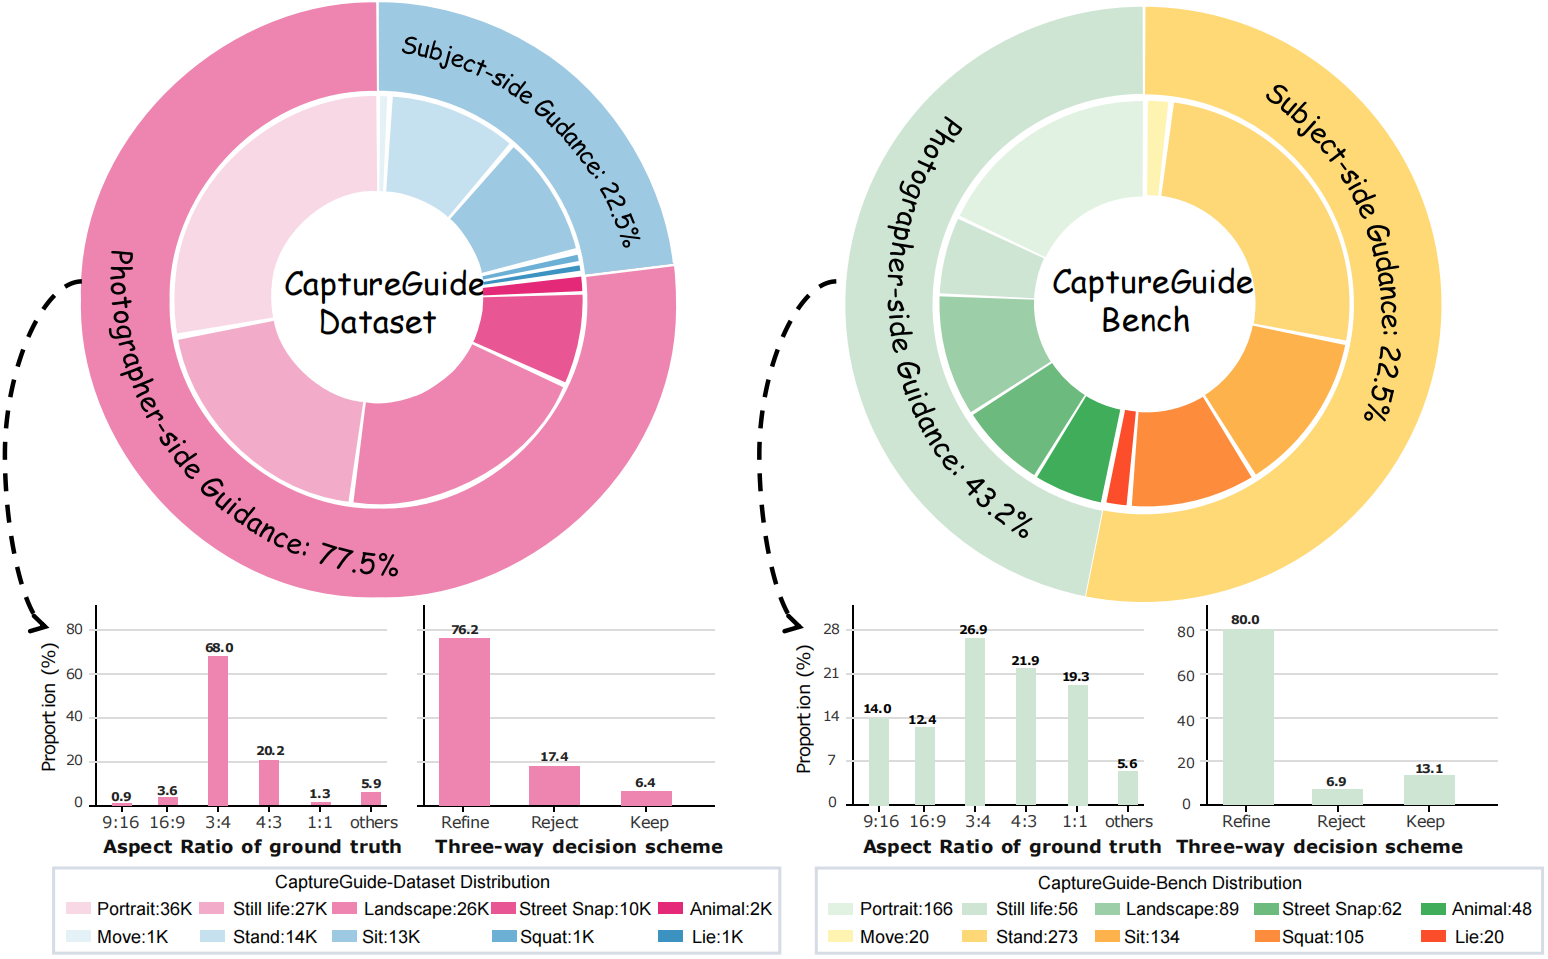
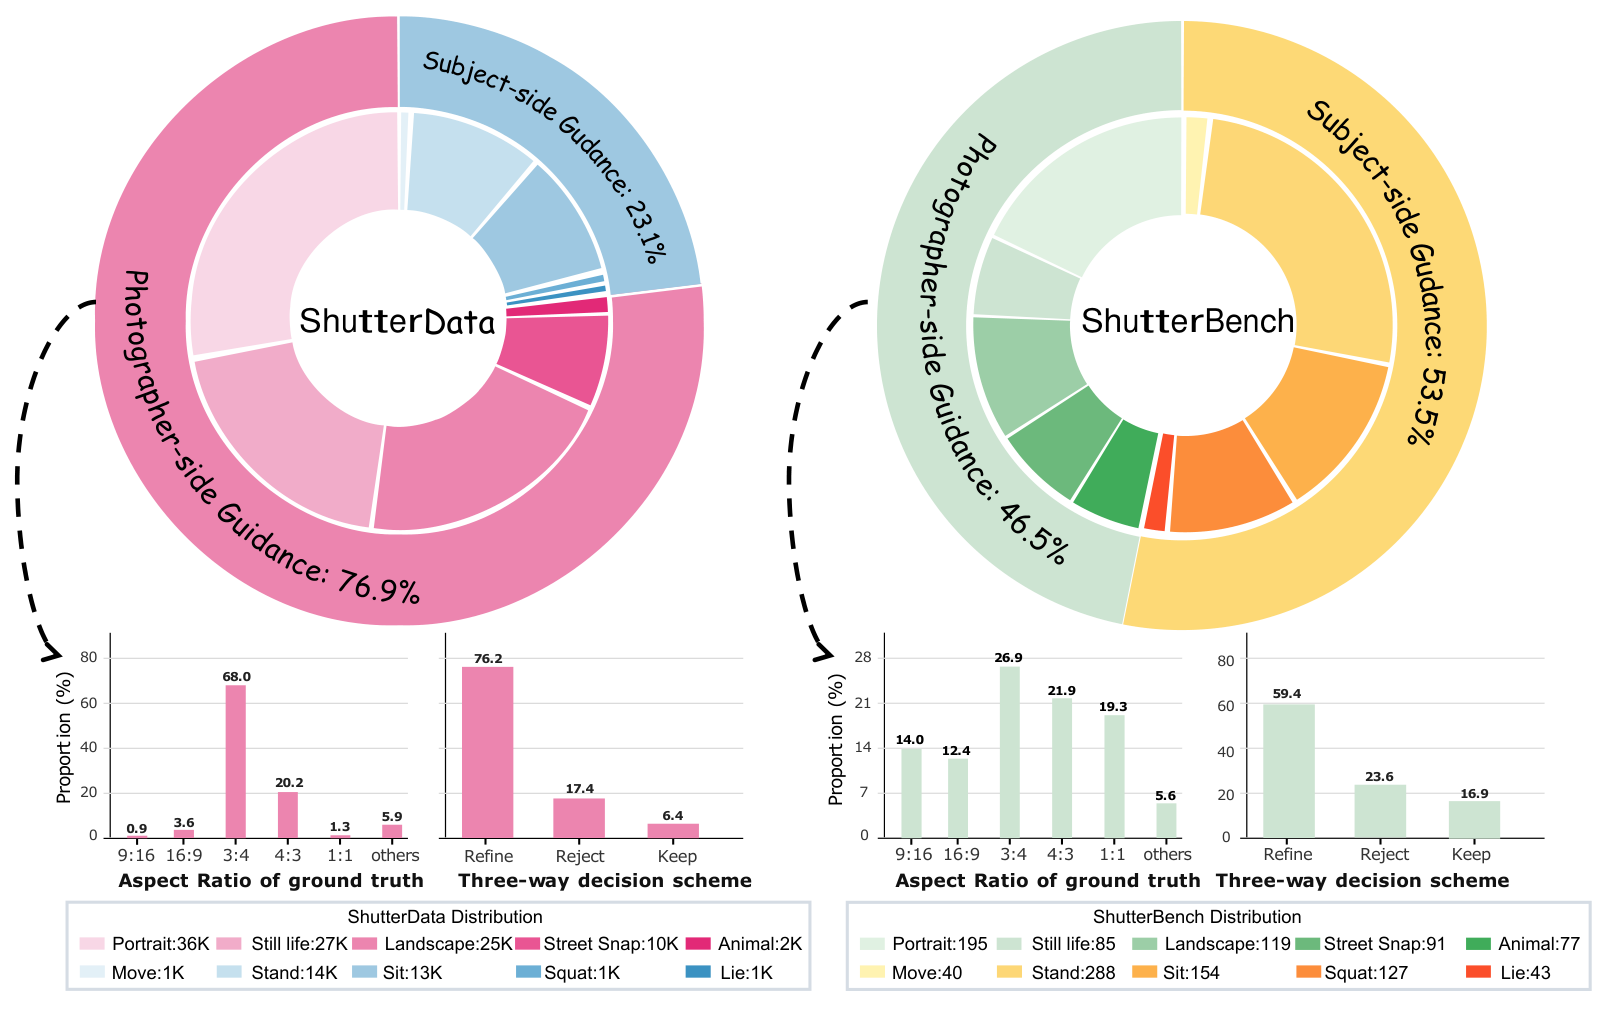
Update ShutterBench results and GRPO rewards

diff --git a/training/grpo_utils/reward_func.py b/training/grpo_utils/reward_func.py
@@ -231,6 +231,162 @@ class SaliencyORM(ORM):
         return rewards
 
 
+class SaliencyIOUORM(SaliencyORM):
+    """Combine crop localization IoU with salient-region coverage."""
+
+    @classmethod
+    def _extract_raw_pred_box(cls, completion: str) -> Optional[Tuple[float, float, float, float]]:
+        matches = list(cls.BBOX_RE.finditer(completion))
+        if not matches:
+            return None
+        x1, y1, x2, y2 = map(float, matches[-1].groups())
+        if x2 <= x1 or y2 <= y1:
+            return None
+        return x1, y1, x2, y2
+
+    @staticmethod
+    def _coverage_ratio(
+        pred_box: Tuple[int, int, int, int],
+        saliency_box: Tuple[int, int, int, int],
+        tolerance_pixels: int = 2,
+    ) -> float:
+        px1, py1, px2, py2 = pred_box
+        sx1, sy1, sx2, sy2 = saliency_box
+        saliency_area = max(0, sx2 - sx1) * max(0, sy2 - sy1)
+        if saliency_area <= 0:
+            return 0.0
+        ix1 = max(px1, sx1 - tolerance_pixels)
+        iy1 = max(py1, sy1 - tolerance_pixels)
+        ix2 = min(px2, sx2 + tolerance_pixels)
+        iy2 = min(py2, sy2 + tolerance_pixels)
+        covered_area = max(0, ix2 - ix1) * max(0, iy2 - iy1)
+        return covered_area / saliency_area
+
+    def __call__(
+        self,
+        completions: List[str],
+        ground_truth_bbox: List[List[int]],
+        **kwargs,
+    ) -> List[float]:
+        rewards = []
+        task_types = kwargs.get("task_type", ["composition"] * len(completions))
+        categories = kwargs.get("category", [""] * len(completions))
+        images = kwargs.get("images", [None] * len(completions))
+        im_sizes = kwargs.get("im_size", [None] * len(completions))
+
+        for completion, gt_box, task_type, category, raw_img_data, im_size in zip(
+            completions, ground_truth_bbox, task_types, categories, images, im_sizes
+        ):
+            if task_type != "composition" or self._normalize_category(category) != "REFINE" or not gt_box:
+                rewards.append(0.0)
+                continue
+
+            raw_pred_box = self._extract_raw_pred_box(completion)
+            if raw_pred_box is None:
+                rewards.append(0.0)
+                continue
+            iou_score = compute_iou(list(raw_pred_box), gt_box)
+            if iou_score <= 0.0:
+                rewards.append(0.0)
+                continue
+
+            image_path = self._extract_image_path(raw_img_data)
+            if not image_path:
+                rewards.append(0.0)
+                continue
+            image_w = image_h = None
+            if isinstance(im_size, (list, tuple)) and len(im_size) >= 2:
+                try:
+                    image_w, image_h = int(im_size[0]), int(im_size[1])
+                except (TypeError, ValueError):
+                    image_w = image_h = None
+            if not image_w or not image_h:
+                image = cv2.imread(image_path, cv2.IMREAD_COLOR)
+                if image is None:
+                    rewards.append(0.0)
+                    continue
+                image_h, image_w = image.shape[:2]
+
+            pred_box = self._extract_pred_box(completion, image_w, image_h)
+            saliency_box = self._get_saliency_bbox(image_path)
+            if pred_box is None or saliency_box is None:
+                rewards.append(0.0)
+                continue
+            coverage = self._coverage_ratio(
+                pred_box, saliency_box, tolerance_pixels=self.COVER_TOLERANCE_PIXELS
+            )
+            coverage_factor = min(1.0, coverage / self.COVER_RATIO_THRESHOLD)
+            rewards.append(float(iou_score * coverage_factor))
+        return rewards
+
+
+class DecisionMakingORM(ORM):
+    """Reward the KEEP, REJECT, or REFINE decision for composition samples."""
+
+    BBOX_RE = re.compile(r"\((\d+(?:\.\d+)?),\s*(\d+(?:\.\d+)?)\),\s*\((\d+(?:\.\d+)?),\s*(\d+(?:\.\d+)?)\)")
+
+    @staticmethod
+    def _normalize_category(category: Any) -> Optional[str]:
+        if category is None:
+            return None
+        category = str(category).strip().upper()
+        if category in {"KEEP", "KEEP_ORIGINAL", "KEEP_DEFECT"}:
+            return "KEEP"
+        if category == "REJECT":
+            return "REJECT"
+        if category in {"REFINE", "CORRECT", "VARIATION"}:
+            return "REFINE"
+        return category or None
+
+    @staticmethod
+    def _is_full_image_bbox(box: List[float]) -> bool:
+        x1, y1, x2, y2 = box
+        return abs(x1) <= 1e-6 and abs(y1) <= 1e-6 and (
+            (abs(x2 - 1.0) <= 1e-6 and abs(y2 - 1.0) <= 1e-6)
+            or (abs(x2 - 1000.0) <= 1e-6 and abs(y2 - 1000.0) <= 1e-6)
+        )
+
+    def _predict_category(self, completion: str) -> str:
+        matches = list(self.BBOX_RE.finditer(completion))
+        if not matches:
+            return "REJECT"
+        box = list(map(float, matches[-1].groups()))
+        return "KEEP" if self._is_full_image_bbox(box) else "REFINE"
+
+    def _infer_gt_category(self, gt_category: Any, gt_box: Any) -> Optional[str]:
+        normalized_category = self._normalize_category(gt_category)
+        if normalized_category:
+            return normalized_category
+        if not gt_box:
+            return "REJECT"
+        if len(gt_box) == 4 and self._is_full_image_bbox([float(x) for x in gt_box]):
+            return "KEEP"
+        return "REFINE"
+
+    def __call__(self, completions: List[str], **kwargs) -> List[float]:
+        gt_categories = kwargs.get("category")
+        if gt_categories is None:
+            gt_categories = kwargs.get("gt_category")
+        if gt_categories is None:
+            gt_categories = kwargs.get("composition_category")
+        if gt_categories is None:
+            gt_categories = [None] * len(completions)
+        gt_boxes = kwargs.get("ground_truth_bbox", [[] for _ in completions])
+        task_types = kwargs.get("task_type", ["composition"] * len(completions))
+
+        rewards = []
+        for completion, gt_category, gt_box, task_type in zip(
+            completions, gt_categories, gt_boxes, task_types
+        ):
+            if task_type != "composition":
+                rewards.append(0.0)
+                continue
+            pred_category = self._predict_category(completion)
+            target_category = self._infer_gt_category(gt_category, gt_box)
+            rewards.append(1.0 if target_category and pred_category == target_category else 0.0)
+        return rewards
+
+
 class PoseVisibilityORM(ORM):
     VISIBILITY_RE = re.compile(r'"visibility"\s*:\s*(\[[^\]]*\])')
 
@@ -279,3 +435,5 @@ orms["ratio_orm"] = RatioORM
 orms["iou_orm"] = IoUORM
 orms["pose_visibility_orm"] = PoseVisibilityORM
 orms["saliency_orm"] = SaliencyORM
+orms["saliency_iou_orm"] = SaliencyIOUORM
+orms["decision_making_orm"] = DecisionMakingORM

diff --git a/README.md b/README.md
@@ -7,7 +7,7 @@
     <a href="https://arxiv.org/abs/2606.25763"><img src="https://img.shields.io/badge/arXiv-2606.25763-b31b1b.svg" alt="arXiv"/></a>
     <a href="https://lijayuTnT.github.io/ShutterMuse/"><img src="https://img.shields.io/badge/Project-ShutterMuse-blue.svg" alt="Project"/></a>
     <a href="https://huggingface.co/ShutterMuse/ShutterMuse"><img src="https://img.shields.io/badge/Model-HuggingFace-yellow.svg" alt="Model"/></a>
-    <a href="https://huggingface.co/datasets/ShutterMuse/CaptureGuide-Bench"><img src="https://img.shields.io/badge/Bench-HuggingFace-purple.svg" alt="Bench"/></a>
+    <a href="https://huggingface.co/datasets/ShutterMuse/CaptureGuide-Bench"><img src="https://img.shields.io/badge/ShutterBench-HuggingFace-purple.svg" alt="ShutterBench"/></a>
   </p>
 </div>
 
@@ -25,47 +25,48 @@
 
 ## News
 
-- **2026-06**: Code, quick start scripts, evaluation scripts, examples, CaptureGuide-Bench, and ShutterMuse model weights are released.
+- **2026-09**: ShutterData, ShutterBench, experimental results, and the GRPO training recipe are updated.
+- **2026-06**: Code, quick start scripts, evaluation scripts, examples, benchmark data, and ShutterMuse model weights are released.
 
-## CaptureGuide Dataset and Bench
+## ShutterData and ShutterBench
 
-CaptureGuide contains two task sides: photographer-side composition guidance and subject-side pose guidance. CaptureGuide-Dataset is used for model development, while CaptureGuide-Bench evaluates composition decision/refinement and pose recommendation quality.
+**ShutterData** contains 130K atomic training examples—100K for photographer-side composition guidance and 30K for subject-side pose guidance—plus 5K joint composition-and-pose examples and 5K pose-refinement examples. **ShutterBench** evaluates both sides: its photographer-side split contains 567 examples (337 refine, 96 keep, and 134 reject), while its subject-side split contains 552 reserved scenes and 100 real-world empty scenes.
 
 <div align="center">
   <a href="./assets/data_distribution_01.png">
-    <img src="./assets/data_distribution_01.png" alt="CaptureGuide dataset and benchmark distribution" width="800">
+    <img src="./assets/data_distribution_01.png" alt="ShutterData and ShutterBench distribution" width="800">
   </a>
 </div>
 
-<p align="center"><em>Distribution of CaptureGuide-Dataset and CaptureGuide-Bench.</em></p>
+<p align="center"><em>Distribution of ShutterData and ShutterBench.</em></p>
 
 ## Results
 
 ### Photographer-side Guidance
 
-| Method | IoU (%) ↑ | BDE ↓ | R (%) ↑ | RSR (%) ↑ | KSR (%) ↑ | MLLM-Score ↑ |
-| --- | ---: | ---: | ---: | ---: | ---: | ---: |
-| **Open-source General MLLMs** |  |  |  |  |  |  |
-| InternVL3.5-8B | 42.86 | 0.127 | 8.61 | 0.00 | 20.00 | 0.15 |
-| Kimi-K2.6 | 65.44 | 0.087 | 37.92 | 0.00 | 90.90 | 0.47 |
-| Qwen3-VL-8B-Instruct | 55.18 | 0.105 | 18.40 | 0.00 | 36.36 | 0.25 |
-| Qwen3-VL-32B-Instruct | 63.80 | 0.101 | 35.91 | 13.79 | **98.18** | 0.47 |
-| Qwen3-VL-235B-A22B-Instruct | 61.84 | 0.093 | 33.53 | 20.69 | <u>94.55</u> | 0.48 |
-| Qwen3.5-9B | 61.94 | 0.094 | 30.86 | 3.45 | 83.64 | 0.45 |
-| Qwen3.6-27B | 53.93 | 0.090 | 33.23 | 48.28 | 72.72 | 0.47 |
-| **Proprietary General MLLMs** |  |  |  |  |  |  |
-| Gemini-3.0-Flash | 64.10 | 0.079 | 38.58 | 55.17 | 87.27 | 0.50 |
-| Gemini-3.0-Pro | 63.62 | 0.070 | 47.48 | **82.76** | 89.09 | 0.54 |
-| Gemini-3.1-Pro | 65.63 | <u>0.068</u> | 51.34 | <u>79.31</u> | 89.09 | 0.56 |
-| Gemini-3.5-Flash | 66.95 | 0.076 | 41.54 | 48.28 | 67.27 | 0.50 |
-| GPT-5.4 | 64.72 | 0.093 | 40.06 | 10.34 | 85.45 | 0.49 |
-| GPT-5.5 | 65.44 | 0.091 | 41.84 | 10.34 | 81.82 | 0.48 |
-| **Specialized Aesthetic Cropping Models** |  |  |  |  |  |  |
-| CACNet | 68.29 | 0.080 | 54.08 | 0.00 | 0.00 | 0.52 |
-| UNIC | 62.46 | 0.081 | 31.12 | 0.00 | 0.00 | 0.29 |
-| InstructCrop | <u>69.53</u> | 0.072 | 56.97 | 0.00 | 0.00 | 0.43 |
-| Venus | 69.43 | 0.076 | <u>57.27</u> | 0.00 | 3.64 | <u>0.57</u> |
-| **ShutterMuse (Ours)** | **74.65** | **0.051** | **67.06** | **82.76** | 74.55 | **0.64** |
+| Method | IoU (%) ↑ | BDE ↓ | R@0.7 (%) ↑ | RSR (%) ↑ | KSR (%) ↑ | Macro-F1 (%) ↑ | MLLM-Score ↑ |
+| --- | ---: | ---: | ---: | ---: | ---: | ---: | ---: |
+| **Open-source General MLLMs** |  |  |  |  |  |  |  |
+| InternVL3.5-8B | 42.86 | 0.127 | 8.61 | 0.00 | 22.92 | 29.09 | 0.18 |
+| Kimi-K2.6 | 65.60 | 0.092 | 38.28 | 4.48 | 96.88 | 28.79 | 0.47 |
+| Qwen3-VL-8B-Instruct | 54.44 | 0.107 | 16.91 | 2.24 | 40.62 | 29.27 | 0.35 |
+| Qwen3-VL-32B-Instruct | 64.33 | 0.099 | 37.39 | 7.46 | 96.88 | 20.14 | 0.43 |
+| Qwen3-VL-235B-A22B-Instruct | 63.97 | 0.094 | 35.61 | 10.45 | **100.00** | 25.77 | 0.48 |
+| Qwen3.5-9B | 61.94 | 0.094 | 30.86 | 5.97 | 77.08 | 31.37 | 0.46 |
+| Qwen3.6-27B | 53.96 | 0.084 | 31.45 | 50.00 | 66.67 | 45.24 | 0.48 |
+| **Proprietary General MLLMs** |  |  |  |  |  |  |  |
+| Gemini-3.0-Flash | 62.46 | 0.077 | 36.80 | **74.63** | 70.83 | 68.99 | 0.60 |
+| Gemini-3.0-Pro | 64.08 | 0.070 | 47.77 | 72.39 | 81.25 | 63.39 | 0.63 |
+| Gemini-3.1-Pro | 65.42 | 0.069 | 49.85 | 72.39 | 80.21 | 64.31 | 0.65 |
+| Gemini-3.5-Flash | 66.05 | 0.075 | 46.29 | 57.46 | 86.46 | 57.39 | 0.63 |
+| GPT-5.4 | 60.03 | 0.089 | 35.91 | 46.27 | 67.71 | 48.89 | 0.48 |
+| GPT-5.5 | 69.74 | 0.078 | 55.49 | 5.22 | 45.83 | 33.75 | 0.48 |
+| **Specialized Aesthetic Cropping Models** |  |  |  |  |  |  |  |
+| CACNet | 67.57 | 0.080 | 51.93 | 0.00 | 0.00 | 24.85 | 0.37 |
+| UNIC | 64.35 | 0.081 | 36.20 | 0.00 | 0.00 | 24.85 | 0.29 |
+| InstructCrop | 69.53 | 0.072 | 56.97 | 0.00 | 0.00 | 24.85 | 0.36 |
+| Venus | 69.90 | 0.075 | 59.05 | 0.00 | 2.08 | 26.24 | 0.44 |
+| **ShutterMuse (Ours)** | **74.72** | **0.053** | **68.25** | 68.66 | 79.17 | **70.10** | **0.69** |
 
 ### FLMS Benchmark
 
@@ -82,11 +83,18 @@ CaptureGuide contains two task sides: photographer-side composition guidance and
 ### Subject-side Guidance
 
 
-| Method          | Plausibility ↑ | Interaction ↑ | Aesthetics ↑ | Mean ↑ | Time ↓   | Tokens ↓ |
-| --------------- | -------------- | ------------- | ------------ | ------ | -------- | -------- |
-| Nano-Banana-Pro | 0.63           | 0.35          | 0.17         | 0.39   | 55.16    | 1370     |
-| GPT-Image-2     | 0.59           | 0.29          | 0.15         | 0.35   | 102.61   | 1427     |
-| **ShutterMuse** | 0.58           | 0.27          | 0.14         | 0.34   | **4.96** | **412**  |
+| Method | Plausibility ↑ | Interaction ↑ | Aesthetics ↑ | Mean ↑ | Time (s) ↓ | # Tokens ↓ |
+| --- | ---: | ---: | ---: | ---: | ---: | ---: |
+| **Image Generation Models** |  |  |  |  |  |  |
+| Nano-Banana-Pro | **0.87** | **0.48** | **0.45** | **0.60** | 55.16 | 1370 |
+| GPT-Image-2 | 0.81 | 0.40 | 0.38 | 0.53 | 102.61 | 1427 |
+| **Vision-Language Models** |  |  |  |  |  |  |
+| Qwen3-VL-8B-Instruct | 0.26 | 0.17 | 0.06 | 0.16 | 5.17 | 284.60 |
+| Qwen3-VL-235B-A22B-Instruct | 0.66 | 0.12 | 0.05 | 0.28 | 11.37 | 366.56 |
+| Kimi-K2.6 | 0.81 | 0.12 | 0.08 | 0.34 | 5.99 | **249.47** |
+| Gemini-3.1-Pro | 0.78 | 0.22 | 0.29 | 0.43 | 20.85 | 439.46 |
+| GPT-5.5 | 0.54 | 0.21 | 0.25 | 0.33 | 19.15 | 1052 |
+| **ShutterMuse (Ours)** | 0.80 | 0.33 | 0.36 | 0.50 | **4.96** | 412 |
 
 
 ## Installation
@@ -166,7 +174,7 @@ python training/grpo_utils/precompute_birefnet_saliency.py \
 export SALIENCY_PRECOMPUTE_JSONL=/path/to/grpo_dataset_birefnet_saliency.jsonl
 ```
 
-The GRPO script registers datasets with `training/grpo_utils/data_format.py` and rewards with `training/grpo_utils/reward_func.py` (`ratio_orm`, `iou_orm`, `pose_visibility_orm`, `saliency_orm`). Common overrides include `CUDA_VISIBLE_DEVICES`, `NPROC_PER_NODE`, `PER_DEVICE_TRAIN_BATCH_SIZE`, `LEARNING_RATE`, `OUTPUT_DIR`, and `VLLM_SERVER_PORT`.
+The GRPO script registers datasets with `training/grpo_utils/data_format.py` and rewards with `training/grpo_utils/reward_func.py`. By default, it uses the decision reward `decision_making_orm` and the localization-and-saliency reward `saliency_iou_orm` with equal weights. Legacy rewards (`ratio_orm`, `iou_orm`, `pose_visibility_orm`, and `saliency_orm`) remain available through `REWARD_FUNCS`. Common overrides include `CUDA_VISIBLE_DEVICES`, `NPROC_PER_NODE`, `PER_DEVICE_TRAIN_BATCH_SIZE`, `LEARNING_RATE`, `OUTPUT_DIR`, and `VLLM_SERVER_PORT`.
 
 ## Evaluation
 
@@ -211,14 +219,14 @@ ShutterMuse/
 └── requirements.txt
 ```
 
-`Benchmark/` and `outputs/` are intentionally excluded from git. The released benchmark is available on [Hugging Face](https://huggingface.co/datasets/ShutterMuse/CaptureGuide-Bench).
+`Benchmark/` and `outputs/` are intentionally excluded from git. ShutterBench is available on [Hugging Face](https://huggingface.co/datasets/ShutterMuse/CaptureGuide-Bench).
 
 ## Data and Checkpoints
 
 
 | Resource               | Status      | Link |
 | ---------------------- | ----------- | ---- |
-| CaptureGuide-Bench     | Released    | [Hugging Face](https://huggingface.co/datasets/ShutterMuse/CaptureGuide-Bench) |
+| ShutterBench           | Released    | [Hugging Face](https://huggingface.co/datasets/ShutterMuse/CaptureGuide-Bench) |
 | ShutterMuse checkpoint | Released    | [Hugging Face](https://huggingface.co/ShutterMuse/ShutterMuse) |
 
 

diff --git a/evaluation/README.md b/evaluation/README.md
@@ -17,7 +17,7 @@ This directory contains the evaluation code used by ShutterMuse.
 - Set `GEMINI_API_KEY` and/or `QWEN_API_KEY` before running VLM-based scoring.
 
 
-## Benchmark Data
+## ShutterBench Data
 
 - `../Benchmark/photographer-side/composition_benchmark/meta_new.json` and `original_composition/` are used by photographer-side evaluation.
 - `../Benchmark/subject-side/paper-benchmark/` and `paper-benchmark-gt/` are used by subject-side evaluation.
